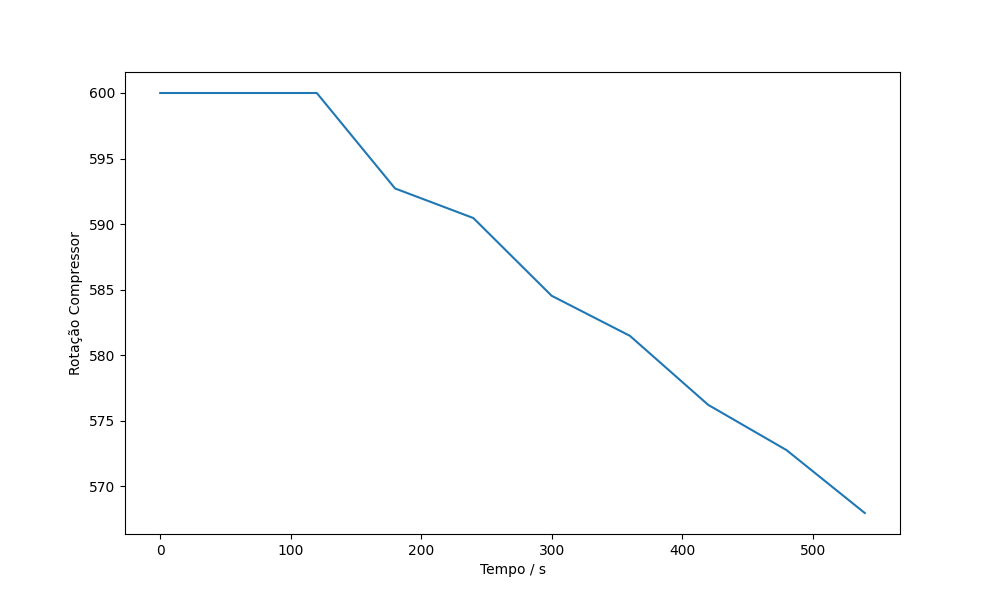
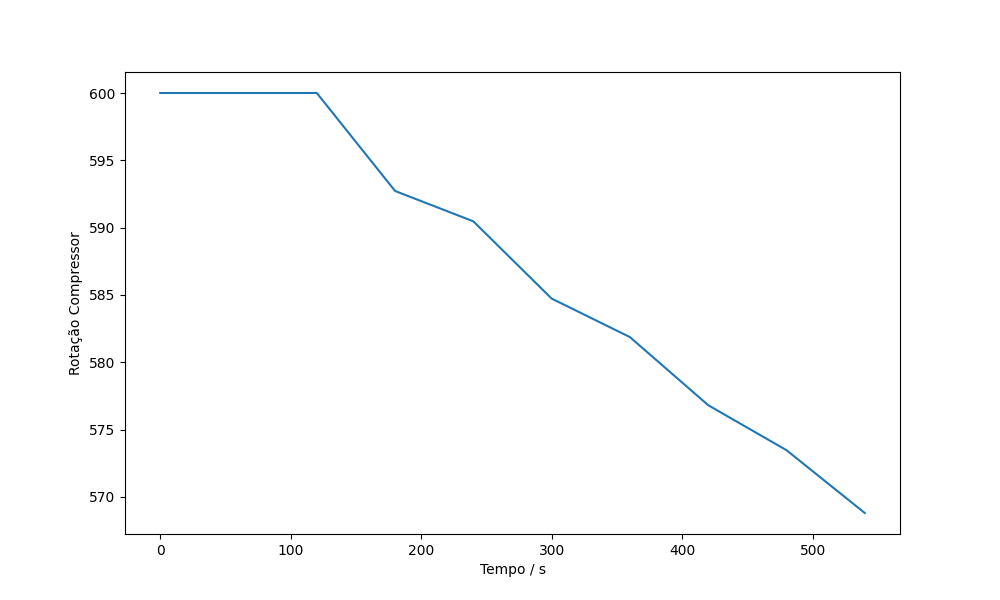
Att. Cov e Sintonia

diff --git a/ENGG21 - Controle Avançado/EMPC/EMPC.py b/ENGG21 - Controle Avançado/EMPC/EMPC.py
@@ -145,10 +145,11 @@ class EMPC:
                 x_plant[i*3:(i+1)*3] = np.array([resPlant['T_sol'][:,i], resPlant['V_sol'][:,i], resPlant['w_sol'][:,i]])
             z_plant = resPlant['z_sol'].T
             
+            # Matrizes de visualização
             self.y_value[:,k] = np.array([resPlant["T_sol"][:,0], resPlant["z10"], resPlant["z11"]]).flatten()
             self.u_value[:,k] = u_plant.flatten() 
 
-            ## Passo a frente
+            ## Passo a frente no modelo
             x_mpc = self.Atil @ x_k + self.Btil @ deltaU_mpc[:,k].reshape(-1,1)
             y_mpc = self.Ctil @ x_k + self.Dtil @ deltaU_mpc[:,k].reshape(-1,1)
 
@@ -160,7 +161,7 @@ class EMPC:
             z_k = np.block([[x_k], [y_sp]])
 
     def kalmanFilter(self, iter = 100):
-        covMedido = .1
+        covMedido = .5
         covSistema = .5
         sM = self.Atil.shape
         PP = np.eye(sM[1])
@@ -224,7 +225,7 @@ if __name__ == "__main__":
     # Configurações do Controlador:
     p = 10 # Horizonte de Predição
     m = 3 # Horizonte de Controle
-    Q = np.eye(model.nY) # Peso das Saídas
+    Q = np.diag([1,1,10]) # Peso das Saídas
     R = np.eye(model.nU) # Peso das Entradas
     iter = 10 # Pontos para simulação do controlador
 
